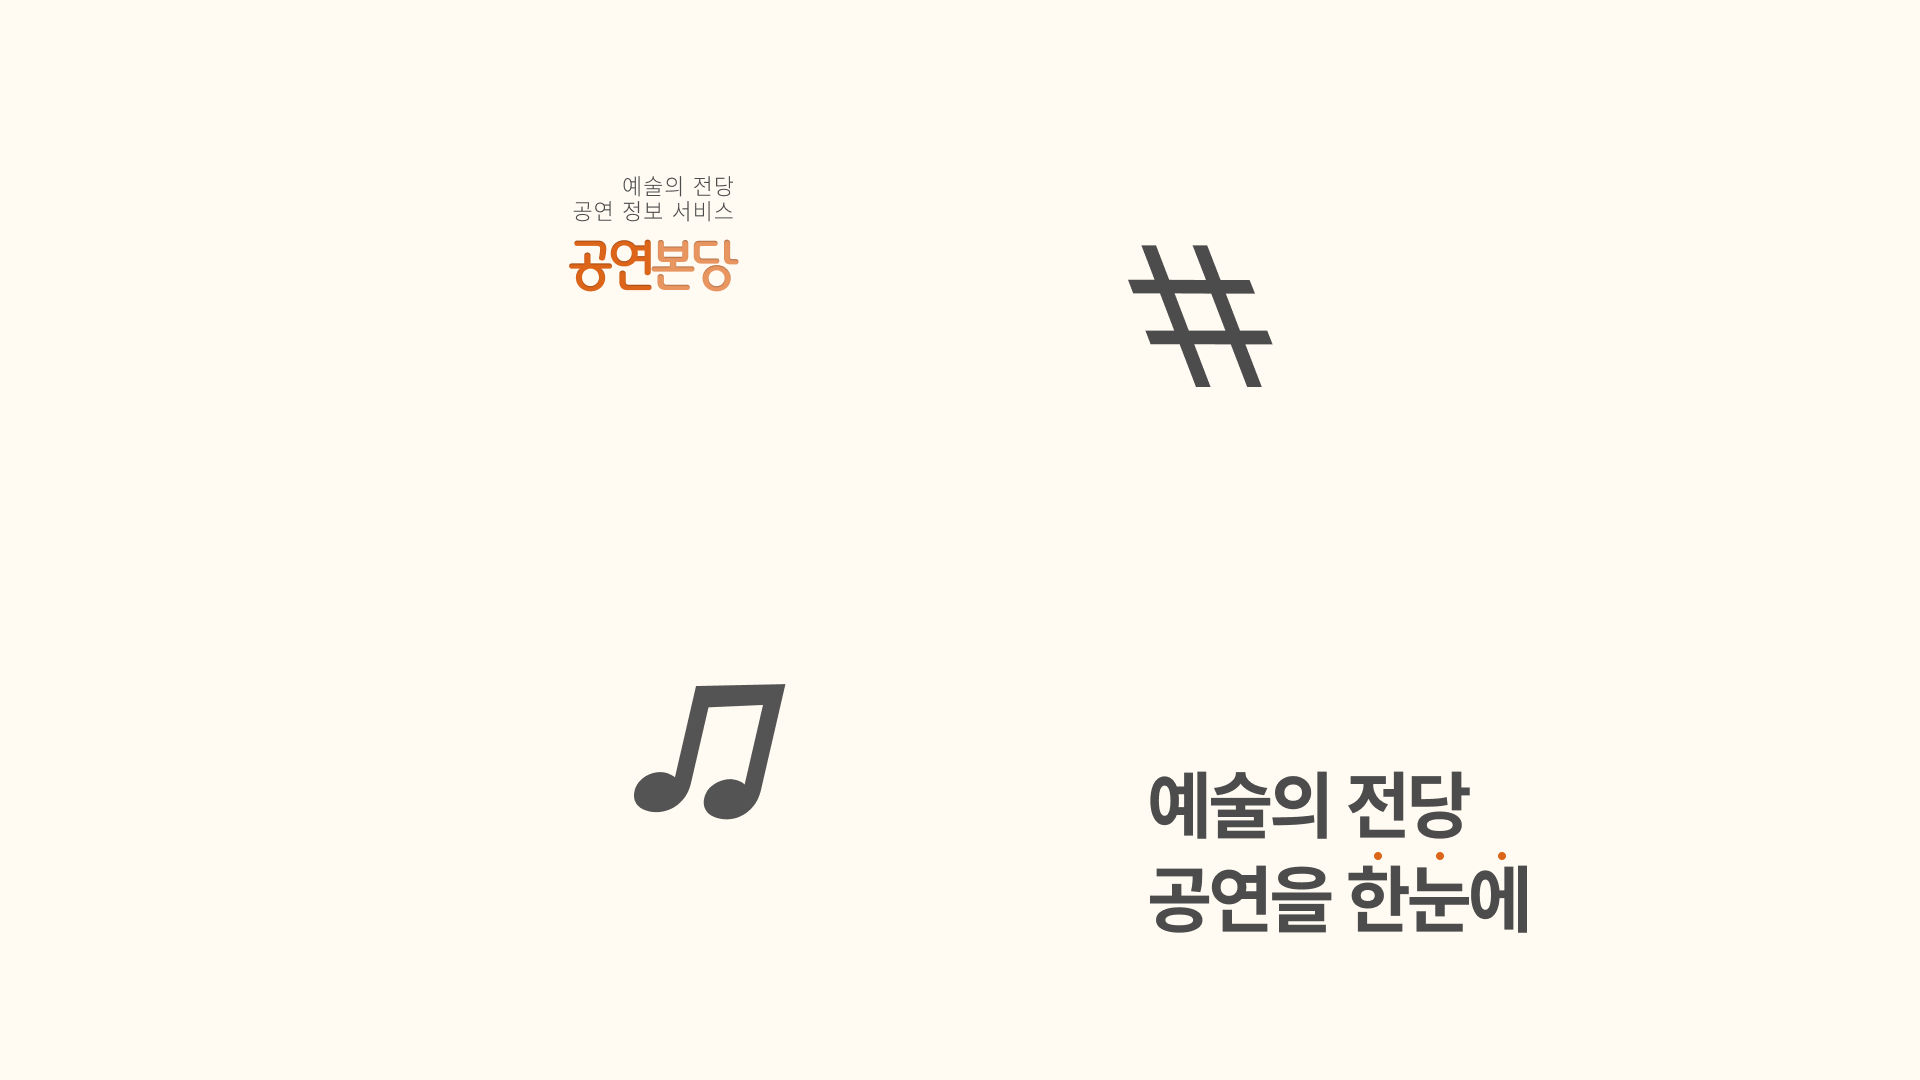
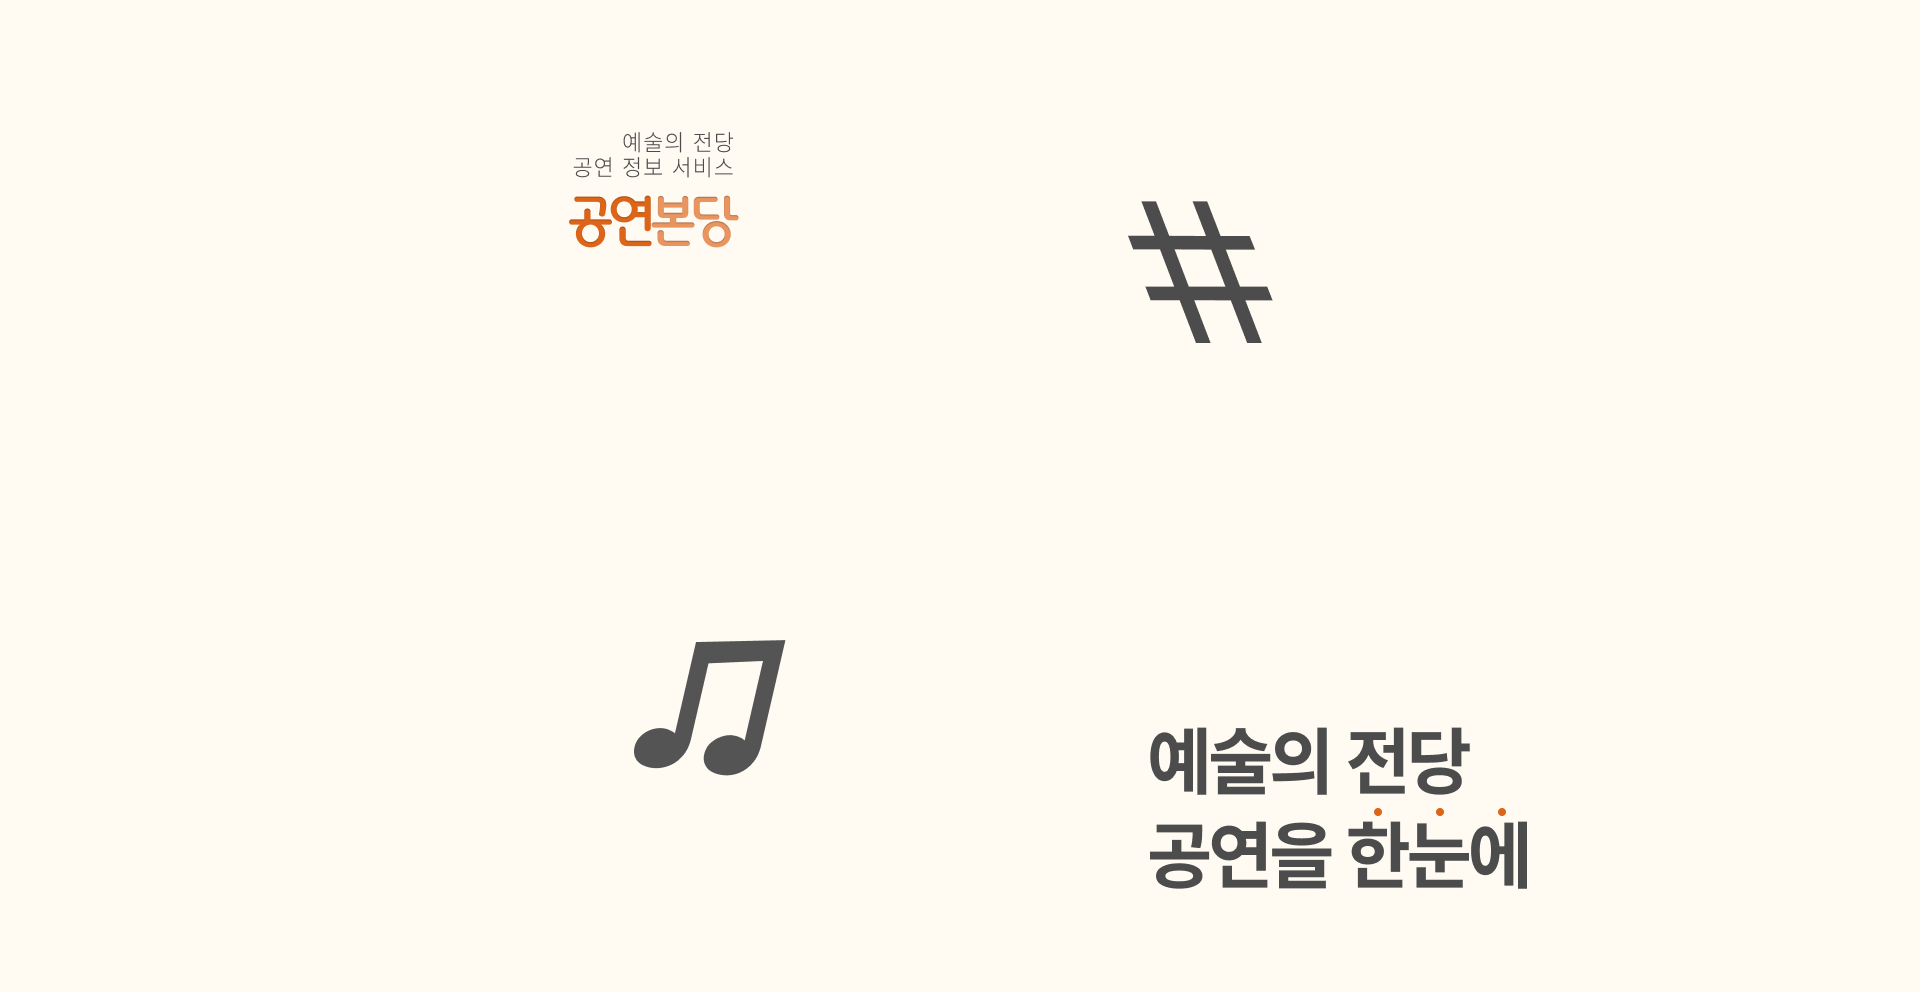
배경수정8

diff --git a/front/src/styles/viewport.scss b/front/src/styles/viewport.scss
@@ -14,9 +14,8 @@ html {
 
 .all_container {
     width: 100%;
-    height: 90%;
     background-image: url('../images/app_back_01.png');
-    background-size: contain;
+    background-size: cover;
 }
 
 .container {
